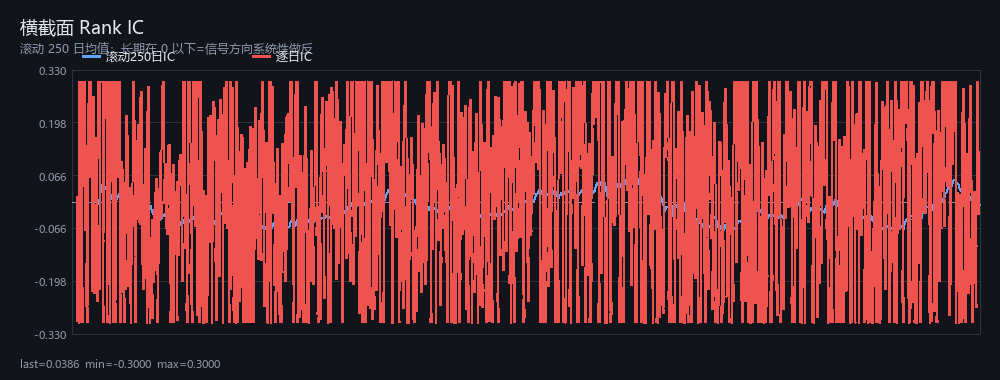
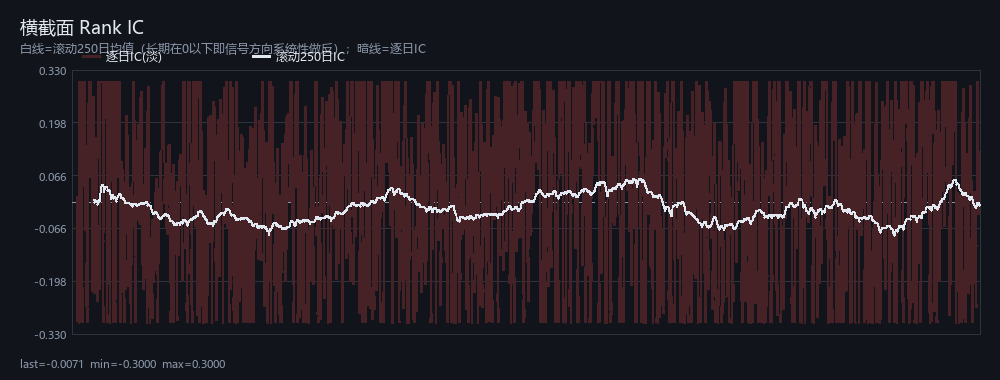
feat: 散户参与度指数 + 民间反向指标实测（结论：不成立）
- qcore/retail_index.py：市场级参与度指数（涨停占比/换手中位/成交额/
  换手P90/离散度/宽度），全部滚动分位化，纯因果
- 实测 2013-2026：高参与度之后 5-20 日收益显著为正（t=1.96~2.71），
  是顺势不是反转；极端尾部与加速度口径同样不成立
- docs/09 增补第七节：民间反向指标（宝妈指数/大学生指数）为何失效
- 明确边界：代理测的是交易热度，不是新增开户数，两者不是一回事

diff --git a/qcore/retail_index.py b/qcore/retail_index.py
@@ -1,0 +1,203 @@
+"""
+散户参与度指数 —— 把"宝妈指数""大学生指数""出租车司机指数"量化。
+
+## 这类民间指标的共同逻辑
+
+它们都不是"预测工具"，而是**参与度温度计**：
+
+    当最不专业、最晚进场的那批人开始讨论股票时，
+    说明能进场的钱基本已经进场了 —— 边际买盘耗尽，随后往往是顶部。
+
+所以它们的正确用法是**反向**：参与度极高 → 未来收益偏低；
+参与度冰点 → 未来收益偏高。这就是"人多的地方不要去"的量化版。
+
+## 民间指标 vs 可测指标
+
+| 民间说法 | 本质 | 我们能不能测 |
+|---|---|---|
+| 宝妈指数（宝妈群开始聊股） | 新增散户参与 | ❌ 无数据，只能用代理 |
+| 大学生指数（大学生开户） | 新增开户数 | ❌ 中登月度数据，无公开 API |
+| 出租车司机荐股 | 全民参与 | ❌ 不可测 |
+| 菜市场指数 | 同上 | ❌ |
+| **换手率极值** | 交易热度 | ✅ 全市场可算 |
+| **涨停家数占比** | 投机情绪 | ✅ 可算 |
+| **成交额相对分位** | 资金活跃度 | ✅ 可算 |
+| **横截面收益离散度** | 分歧/轮动 | ✅ 可算 |
+| **小单净流入占比** | 散户净买入 | ✅ 东财资金流（近 120 日） |
+| **新基金发行规模** | 增量资金 | ❌ 需外部数据 |
+
+**本模块只做能测的五个**，并明确写：这是代理，不是原指标。
+代理与"宝妈真的在聊股"的相关系数**未知**，结论只能算线索。
+
+## 关键纪律
+
+参与度指数是**市场级**（时间序列）指标，不是个股级（横截面）指标。
+它的检验方式与选股因子不同：看的是"指数未来收益"，不是"横截面 IC"。
+"""
+from __future__ import annotations
+
+from dataclasses import dataclass
+from typing import Dict, List, Optional
+
+import numpy as np
+import pandas as pd
+
+
+@dataclass
+class RetailIndexConfig:
+    window: int = 250          # 滚动标准化窗口
+    min_periods: int = 60
+    limit_th: float = 0.095    # 涨停判定阈值（主板 10%，留一点余量）
+
+
+def _roll_z(x: np.ndarray, win: int, minp: int) -> np.ndarray:
+    s = pd.Series(x, dtype="float64")
+    mu = s.rolling(win, min_periods=minp).mean()
+    sd = s.rolling(win, min_periods=minp).std()
+    return ((s - mu) / sd.replace(0, np.nan)).clip(-3, 3).to_numpy()
+
+
+def _roll_pct(x: np.ndarray, win: int, minp: int) -> np.ndarray:
+    return pd.Series(x, dtype="float64").rolling(win, min_periods=minp).rank(pct=True).to_numpy()
+
+
+def market_metrics(p3d, cfg: RetailIndexConfig = RetailIndexConfig()) -> pd.DataFrame:
+    """
+    从 Panel3D 直接算市场级参与度原始指标（全部因果）。
+    返回 index=日期 的 DataFrame。
+    """
+    T, N = p3d.CLOSE.shape
+    with np.errstate(invalid="ignore", divide="ignore"):
+        ret = np.full((T, N), np.nan)
+        ret[1:] = p3d.CLOSE[1:] / p3d.CLOSE[:-1] - 1.0
+
+    valid = p3d.VALID
+    turn = np.where(valid, np.nan, np.nan)  # 占位：turnover 不在 Panel3D，见下
+    out = pd.DataFrame(index=pd.DatetimeIndex(p3d.dates))
+
+    # 1) 涨停家数占比（用收益阈值近似；严格版需涨跌停价，日线够用）
+    lim = (ret >= cfg.limit_th) & valid
+    denom = valid.sum(axis=1)
+    out["limit_up_ratio"] = np.where(denom > 0, lim.sum(axis=1) / np.maximum(denom, 1), np.nan)
+
+    # 2) 横截面收益离散度（分歧度）
+    out["dispersion"] = np.nanstd(np.where(valid, ret, np.nan), axis=1)
+
+    # 3) 上涨家数占比（市场宽度）
+    up = (ret > 0) & valid
+    out["adv_ratio"] = np.where(denom > 0, up.sum(axis=1) / np.maximum(denom, 1), np.nan)
+
+    # 4) 成交额代理：用 SIGMA 的倒数不合适，改由外部传入 amount；此处先用 |ret| 加权活跃度
+    out["abs_ret_mean"] = np.nanmean(np.abs(np.where(valid, ret, np.nan)), axis=1)
+
+    return out
+
+
+def add_turnover(p3d, panel: Dict[str, pd.DataFrame],
+                 cfg: RetailIndexConfig = RetailIndexConfig()) -> pd.DataFrame:
+    """
+    补上换手率与成交额（这两个不在 Panel3D 里，需要从原始日线取）。
+    """
+    m = market_metrics(p3d, cfg)
+    T, N = p3d.CLOSE.shape
+    turn = np.full((T, N), np.nan)
+    amt = np.full((T, N), np.nan)
+    for n, code in enumerate(p3d.codes):
+        df = panel.get(code)
+        if df is None:
+            continue
+        pos = np.searchsorted(p3d.dates, df["date"].to_numpy())
+        ok = (pos < T) & (p3d.dates[np.clip(pos, 0, T - 1)] == df["date"].to_numpy())
+        pos = pos[ok]
+        if "turnover" in df:
+            turn[pos, n] = df["turnover"].to_numpy(dtype=float)[ok]
+        if "amount" in df:
+            amt[pos, n] = df["amount"].to_numpy(dtype=float)[ok]
+
+    m["turn_median"] = np.nanmedian(turn, axis=1)
+    m["amount_sum"] = np.nansum(amt, axis=1) / 1e8          # 亿元
+    m["turn_p90"] = np.nanpercentile(turn, 90, axis=1)      # 尾部热度
+    return m
+
+
+def retail_index(metrics: pd.DataFrame, cfg: RetailIndexConfig = RetailIndexConfig()) -> pd.DataFrame:
+    """
+    合成参与度指数（每个分项先滚动分位化，再等权平均）。
+    返回带分项与综合分的 DataFrame；`rpi` 为综合参与度（0-1 分位尺度）。
+    """
+    m = metrics.copy()
+    cols = []
+    spec = {
+        "limit_up_ratio": +1,     # 涨停多 = 投机热
+        "turn_median": +1,        # 换手高 = 交易热
+        "amount_sum": +1,         # 成交额大 = 资金活跃
+        "turn_p90": +1,           # 尾部换手 = 题材炒
+        "dispersion": +1,         # 分歧大 = 轮动快
+        "adv_ratio": +1,          # 上涨家数多 = 情绪好
+    }
+    for k, sign in spec.items():
+        if k in m.columns:
+            m[f"{k}_pct"] = _roll_pct(m[k].to_numpy(), cfg.window, cfg.min_periods)
+            cols.append(f"{k}_pct")
+
+    if not cols:
+        m["rpi"] = np.nan
+        return m
+    m["rpi"] = np.nanmean(m[cols].to_numpy(), axis=1)
+    m["rpi_z"] = _roll_z(m["rpi"].to_numpy(), cfg.window, cfg.min_periods)
+    return m
+
+
+def contrarian_test(rpi: np.ndarray, index_ret: np.ndarray,
+                    horizons: List[int] = (5, 20, 60)) -> pd.DataFrame:
+    """
+    反向指标检验：参与度分位 vs 指数未来收益。
+    若为反向指标，高分组（Q5）的未来收益应显著低于低分组（Q1）。
+    """
+    from . import stats as ST
+    rows = []
+    n = len(rpi)
+    for h in horizons:
+        fwd = np.full(n, np.nan)
+        if n > h:
+            fwd[:n - h] = index_ret[h:] if index_ret.ndim == 1 else np.nan
+            # 指数收益需按 h 日累计
+            cum = np.full(n, np.nan)
+            c = np.cumprod(1 + np.nan_to_num(index_ret))
+            cum[:n - h] = c[h:] / c[:n - h] - 1.0
+            fwd = cum
+        m = np.isfinite(rpi) & np.isfinite(fwd)
+        if m.sum() < 100:
+            rows.append({"h": h, "ok": False, "reason": "insufficient"})
+            continue
+        r, y = rpi[m], fwd[m]
+        q_lo, q_hi = np.quantile(r, [0.2, 0.8])
+        lo = y[r <= q_lo]; hi = y[r >= q_hi]
+        st_lo = ST.mean_tstat(lo, lags=max(h - 1, 0))
+        st_hi = ST.mean_tstat(hi, lags=max(h - 1, 0))
+        rows.append({
+            "h": h, "ok": True, "n": int(m.sum()),
+            "q1_mean": st_lo["mean"], "q1_t": st_lo["t"],
+            "q5_mean": st_hi["mean"], "q5_t": st_hi["t"],
+            "q5_minus_q1": st_hi["mean"] - st_lo["mean"],
+            "contrarian_holds": bool(st_hi["mean"] < st_lo["mean"]),
+        })
+    return pd.DataFrame(rows)
+
+
+def current_state(rpi_df: pd.DataFrame) -> Dict:
+    """当前参与度状态（给研判用）。"""
+    if "rpi" not in rpi_df or not np.isfinite(rpi_df["rpi"].iloc[-1]):
+        return {"ok": False, "reason": "not_enough_history"}
+    v = float(rpi_df["rpi"].iloc[-1])
+    pct = float(_roll_pct(rpi_df["rpi"].to_numpy(), 250, 60)[-1])
+    level = ("极高（历史上 80% 分位以上）" if pct > 0.8 else
+             "偏高" if pct > 0.6 else
+             "中性" if pct > 0.4 else
+             "偏低" if pct > 0.2 else "冰点（历史 20% 分位以下）")
+    signal = ("反向看空：参与度极高，边际买盘可能耗尽" if pct > 0.8 else
+              "反向看多：参与度冰点，往往对应底部区域" if pct < 0.2 else
+              "不表态：参与度中性，无反向信号")
+    return {"ok": True, "rpi": v, "percentile": pct, "level": level,
+            "signal": signal,
+            "note": "这是市场级时间序列指标，不用于个股选择"}

diff --git a/qcore/brief.py b/qcore/brief.py
@@ -94,9 +94,12 @@ def build(pool_n: int = 300, start: str = "2013-01-01", horizon: int = 5,
     ic = AN.daily_ic_series(res["scores"], p3d.RET[horizon].T)
     ic_r = _rolling_mean(ic, 250)
     CH.line_png(os.path.join(IMG_DIR, "ic.png"),
-                {"滚动250日IC": (None, ic_r), "逐日IC": (None, np.clip(ic, -0.3, 0.3))},
-                title="横截面 Rank IC", subtitle="滚动 250 日均值；长期在 0 以下=信号方向系统性做反",
-                fmt="{:.3f}", hline=0.0)
+                {"逐日IC(淡)": (None, np.clip(ic, -0.3, 0.3)),
+                 "滚动250日IC": (None, ic_r)},
+                title="横截面 Rank IC",
+                subtitle="白线=滚动250日均值（长期在0以下即信号方向系统性做反）；暗线=逐日IC",
+                fmt="{:.3f}", hline=0.0,
+                colors={"逐日IC(淡)": (70, 34, 38), "滚动250日IC": (226, 232, 240)})
 
     # ---------------- 3. 权重演化（Top 8）
     wh = res["weights_hist"]
